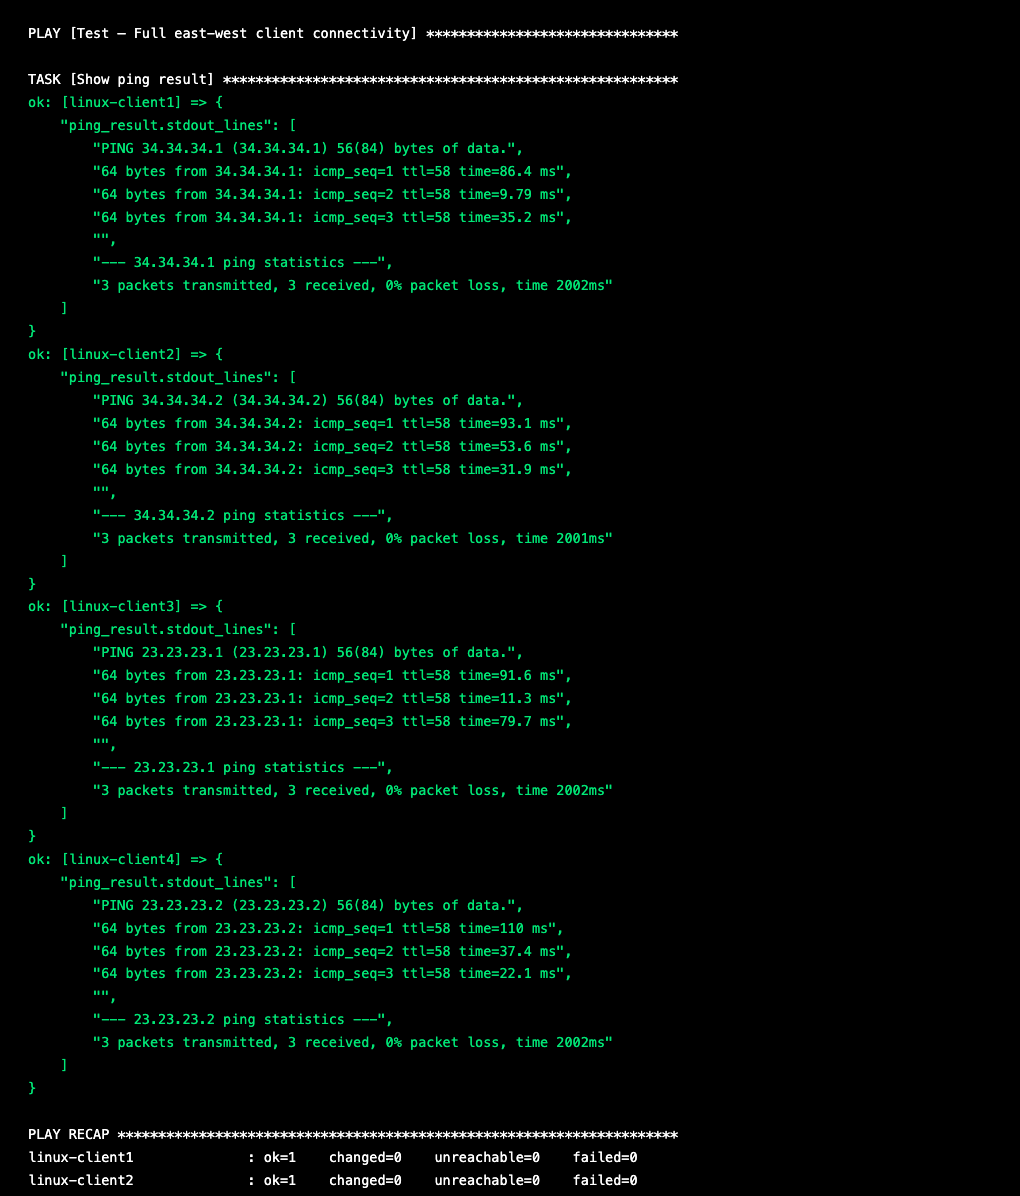
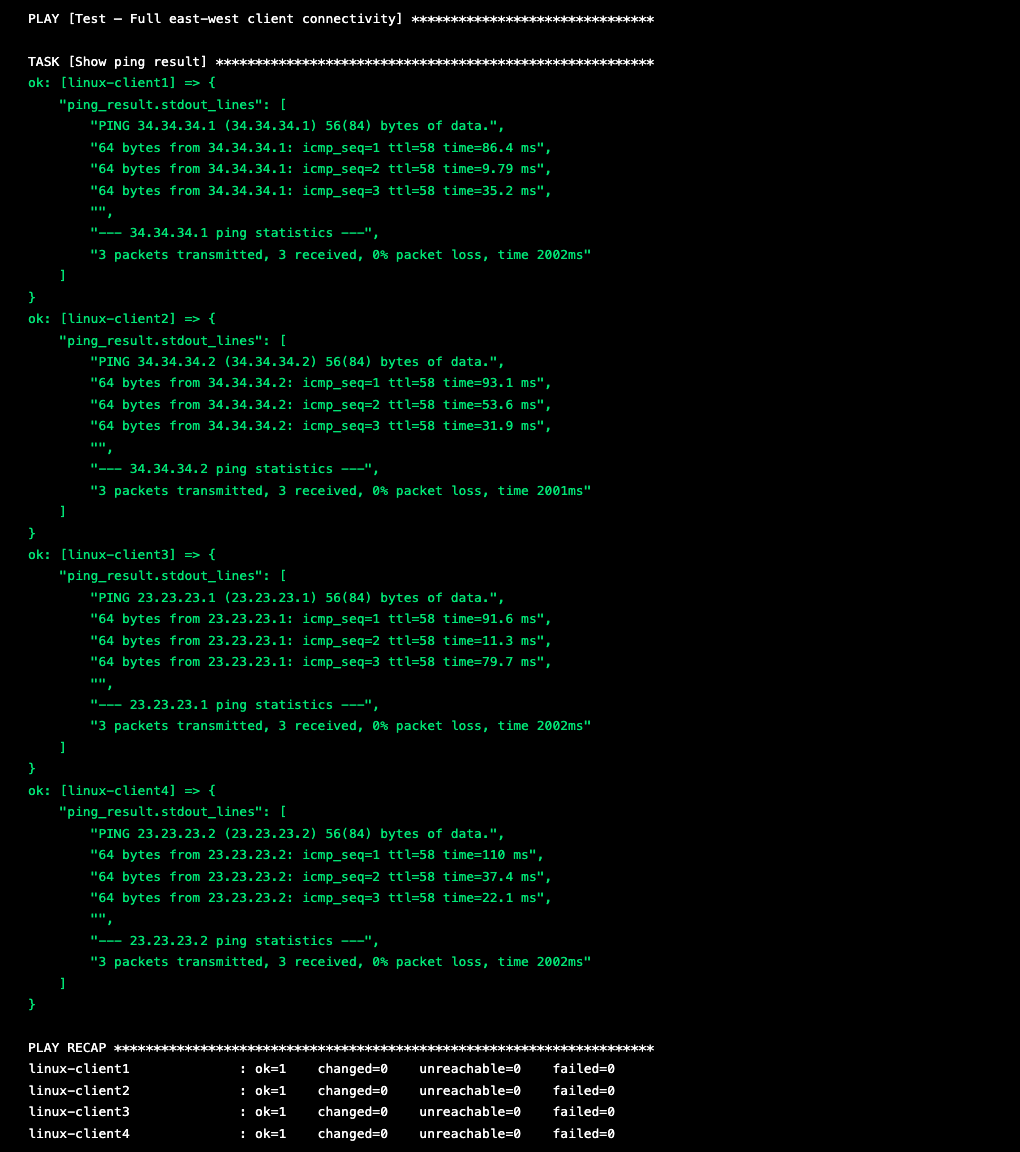
fix task3-ping-output: show all 4 clients in PLAY RECAP
Reduced padding and font-size slightly to fit all content (4 ping
blocks + full 4-line PLAY RECAP) within Chrome's viewport height limit.
All linux-client1 through linux-client4 now visible in summary.

Changed region(s): [[0.0304, 0.0, 0.6686, 0.875], [0.0304, 0.9062, 0.6686, 1.0]]

diff --git a/images/task3-ping-output.html b/images/task3-ping-output.html
@@ -18,9 +18,9 @@
   .terminal {
     background: #000000;
     width: 1020px;
-    padding: 22px 60px 22px 28px;
-    font-size: 13.5px;
-    line-height: 1.7;
+    padding: 8px 60px 8px 28px;
+    font-size: 13px;
+    line-height: 1.65;
   }
 
   .ok  { color: #00e676; }
